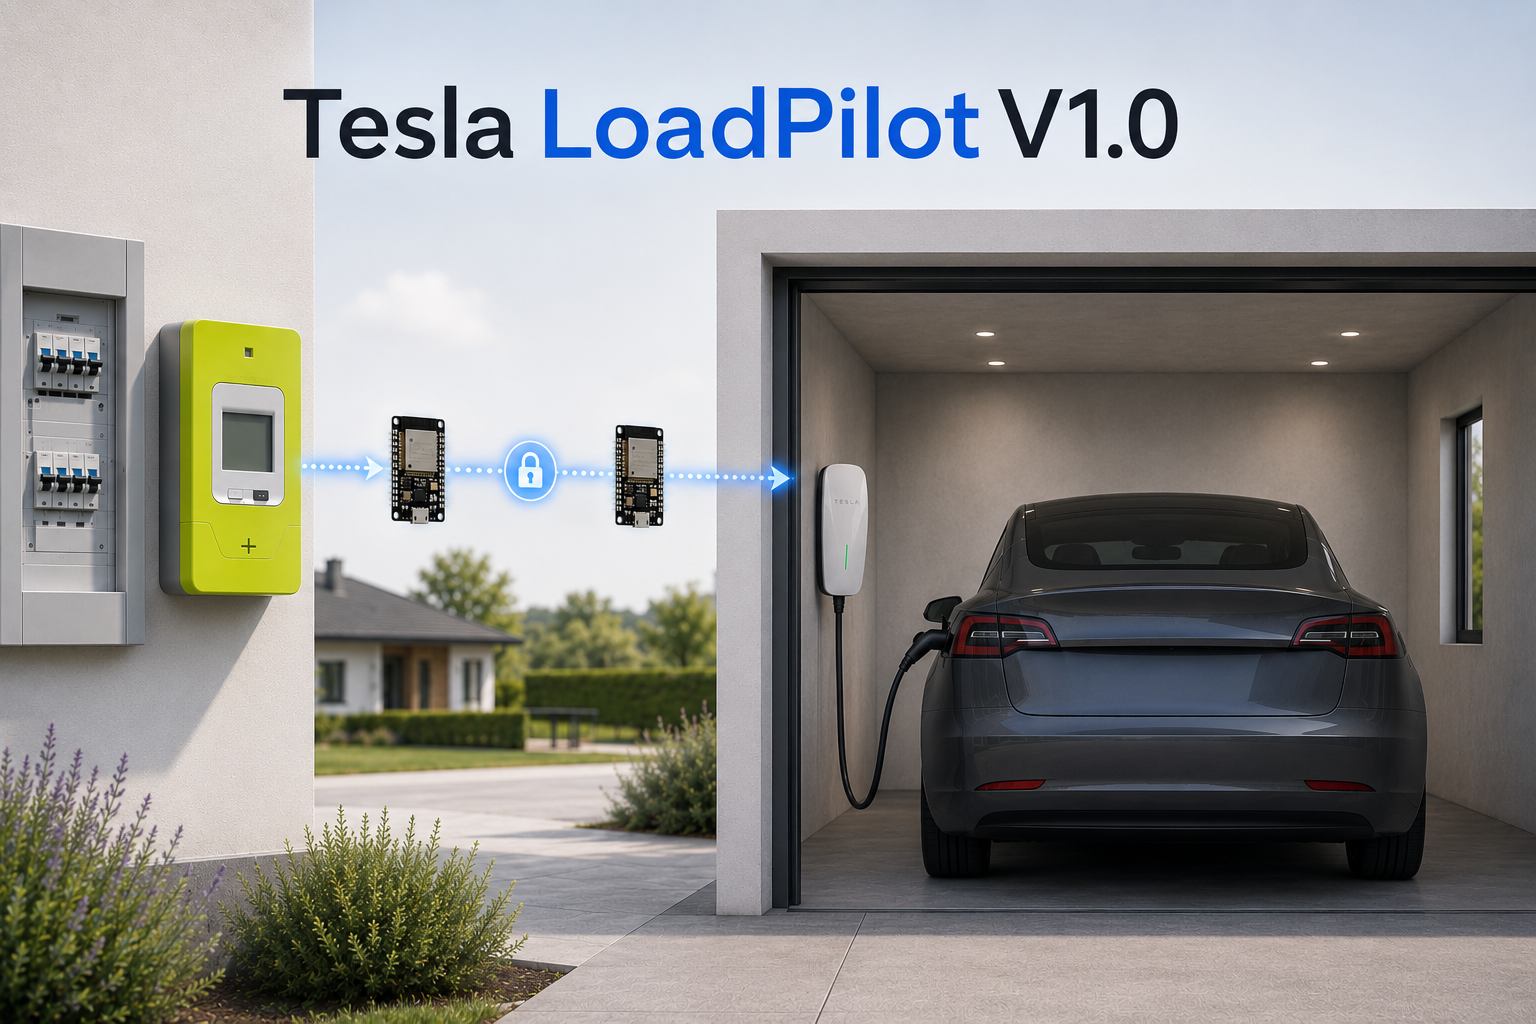
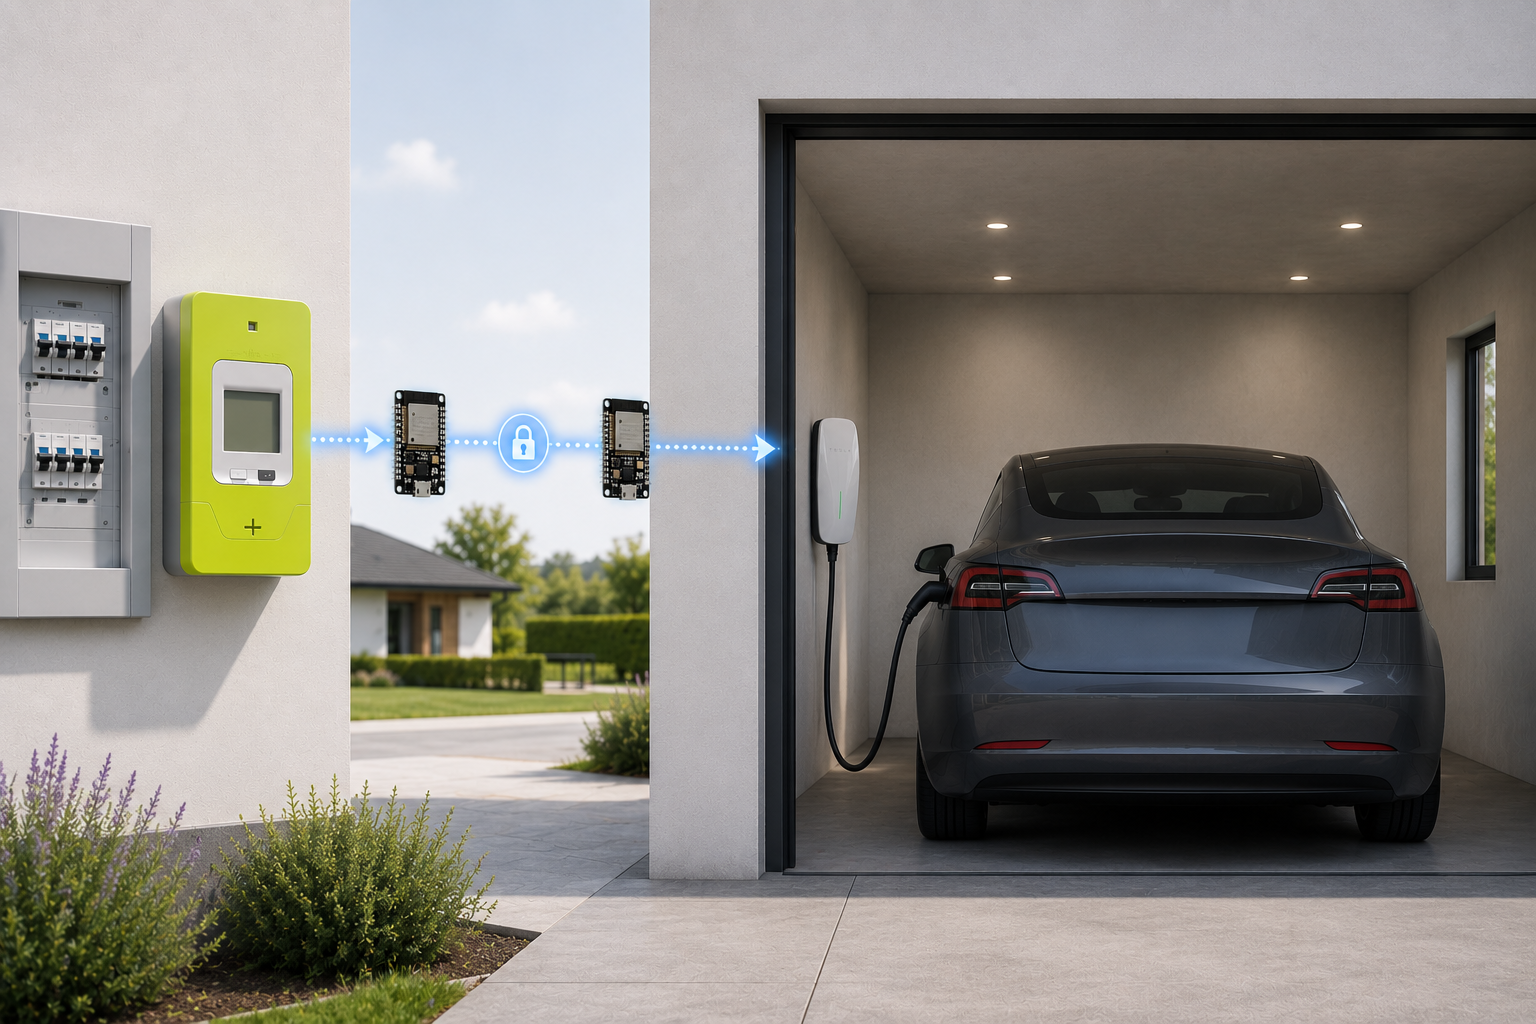
Nouvelle image hero : chaine complete Linky vers borne, sans lettrage ni titre

diff --git a/docs/fr/10_MATERIEL.md b/docs/fr/10_MATERIEL.md
@@ -7,8 +7,8 @@
 | # | Matériel | Rôle | Détails / lien |
 |---|---|---|---|
 | 1 | **Compteur Linky triphasé** (contrat Tempo 15 kVA dans l'installation de référence) | Source de mesure : téléinfo TIC **mode standard**, 9600 bd, 7E1, trames ~1 Hz (SINSTS >400 octets en Tempo) | Sortie I1/I2 du compteur. Limite surveillée PAR PHASE : contrat ÷ 3 (5 000 VA/phase ≈ 21,7 A à 15 kVA) |
-| 2 | **Nœud téléinfo : Olimex ESP32-POE** (modèle confirmé par Vincent) | Décode la TIC, publie vers HA (API native) **et** vers le nœud borne (UDP direct) | https://www.olimex.com/Products/IoT/ESP32/ESP32-POE/open-source-hardware - Ethernet LAN8720 : MDC GPIO23, MDIO GPIO18, CLK `GPIO17_OUT`, `phy_addr 0`. **Réconciliation config** (voir `20_FIRMWARE.md` §1.2) : la config de PRODUCTION (`board: esp32dev`, sans `power_pin`) fonctionne en Ethernet sur notre exemplaire - le brochage LAN8720 correspond bien à l'ESP32-POE ; mais la config de RÉFÉRENCE Olimex/ESPHome pour cette carte inclut `power_pin: GPIO12` (le GPIO qui alimente le PHY). La version publiée l'ajoute : sans lui le PHY dépend de l'état par défaut de GPIO12 et l'Ethernet peut ne pas revenir sur certains exemplaires/révisions après un soft-reset |
-| 3 | **Hat téléinfo Hallard « WeMos TeleInfo »** | Adaptation du signal TIC vers l'UART de l'ESP32 (opto-isolation) | https://www.tindie.com/products/hallard/wemos-teleinfo/ - monté sur le port UART, **RX GPIO36**, 9600 bd 7E1, mode standard (info Vincent) |
+| 2 | **Nœud téléinfo : Olimex ESP32-POE** (modèle confirmé sur le site pilote) | Décode la TIC, publie vers HA (API native) **et** vers le nœud borne (UDP direct) | https://www.olimex.com/Products/IoT/ESP32/ESP32-POE/open-source-hardware - Ethernet LAN8720 : MDC GPIO23, MDIO GPIO18, CLK `GPIO17_OUT`, `phy_addr 0`. **Réconciliation config** (voir `20_FIRMWARE.md` §1.2) : la config de PRODUCTION (`board: esp32dev`, sans `power_pin`) fonctionne en Ethernet sur notre exemplaire - le brochage LAN8720 correspond bien à l'ESP32-POE ; mais la config de RÉFÉRENCE Olimex/ESPHome pour cette carte inclut `power_pin: GPIO12` (le GPIO qui alimente le PHY). La version publiée l'ajoute : sans lui le PHY dépend de l'état par défaut de GPIO12 et l'Ethernet peut ne pas revenir sur certains exemplaires/révisions après un soft-reset |
+| 3 | **Hat téléinfo Hallard « WeMos TeleInfo »** | Adaptation du signal TIC vers l'UART de l'ESP32 (opto-isolation) | https://www.tindie.com/products/hallard/wemos-teleinfo/ - monté sur le port UART, **RX GPIO36**, 9600 bd 7E1, mode standard (relevé sur le site pilote) |
 | 4 | **Kincony KC868-A6** (ESP32) | Nœud borne : émule le compteur Neurio en **esclave Modbus RTU** sur le RS485 du TWC | Transceiver RS485 **MAX13487E à direction automatique** (aucun DE/RE à piloter), TX **GPIO27** / RX **GPIO14**. Doc : https://devices.esphome.io/devices/kincony-kc868-a6/ , https://www.kincony.com/forum/showthread.php?tid=1962 . À Loupiac ce nœud est mutualisé avec la sécurité eau/forage - seule l'UART RS485 libre est utilisée par le TWC |
 | 5 | **Tesla Wall Connector Gen 3** (firmware ≥ 26.18) | La borne. Entrée « Home Load Management » = bus RS485 interne, la borne est **maître Modbus et polle** le compteur | Bornier **RS485 2 points derrière la façade** (près du 230 V → **disjoncteur de la borne COUPÉ** avant d'ouvrir). Câblage A/B + GND, CAT5e. **Polarité à inverser si muet** (octets reçus mais 0 trame valide = A/B permutés - vécu). Modbus RTU **115200 8N1** |
 | 6 | Câble CAT5e (une paire + masse) | Liaison KC868 ↔ TWC | **Terminaison 120 Ω : non requise sur liaison courte** - VALIDÉ en production sans aucune résistance (115 200 bd, poll ~190 ms, zéro tx_blocked/trame rejetée sur des jours de fonctionnement). Ajouter 120 Ω à chaque extrémité si liaison longue (> quelques mètres) ou si erreurs de trame observées |

diff --git a/docs/fr/61_SPEC_BUFFER_T2.md b/docs/fr/61_SPEC_BUFFER_T2.md
@@ -22,7 +22,7 @@
 
 ## 1. Formule du coussin proportionnel - analyse et DÉCISION
 
-Sémantique demandée par Vincent : « buffer 10 % ⇒ le système n'exploite que 90 % des
+Sémantique demandée par le propriétaire du site : « buffer 10 % ⇒ le système n'exploite que 90 % des
 ressources disponibles ». Ressources disponibles pour la voiture = `L − maison`.
 
 ### 1.1 Variante A (formule littérale proposée) - ÉCARTÉE
@@ -55,7 +55,7 @@ Propriétés vérifiées :
 - **Sémantique exacte et PERSISTANTE.** Régime établi (Î→Î_dc, S_e2→pub) :
   `S' = maison + I + b·(L − maison)` ; équilibre `S' = L` ⇒
   **`I* = (1−b)·(L − maison)`** - la voiture n'exploite jamais que (1−b) de la ressource,
-  même après des heures. C'est la demande de Vincent, mot pour mot.
+  même après des heures. C'est la demande du propriétaire du site, mot pour mot.
 - **Pente conservée = α** (plausibilité 26.18) : `d(S')/d(I) = α − b·(1 − dÎ/dI) = α`
   quand vitals suivent (dÎ/dI = 1). T2 teste donc EXACTEMENT la pente 0,75 prévue par
   l'étude, quel que soit b - la variante A aurait contaminé le test. Résidu pendant le
@@ -119,7 +119,7 @@ if (std::isnan(b) || b < 0.0f || b > 30.0f) b = 10.0f; const float bfrac = b / 1
 tourne dans tous les modes) → les shadows L1-3 montrent l'effet du buffer sans toucher la
 borne = validation T0 gratuite avant T2. Aucun switch dédié : buffer à 0 = neutre.
 
-## 3. Protocole T2 finalisé (opérateurs : coordinateur + Vincent)
+## 3. Protocole T2 finalisé (opérateurs : coordinateur + propriétaire du site)
 
 ### 3.1 Préconditions (toutes vérifiables avant bascule)
 
@@ -167,7 +167,7 @@ vitals stale > 60 s pendant le test → RAW (le test n'est plus celui d'α=0,75)
   survit pas au reboot de toute façon - `restore_value: false`). Consigner : entrée
   datée dans `contrat_electrique_LOGIQUE.md` (T2 PASS + mesures : amplitude d'oscillation,
   équilibre, durée), note d'état dans `60_ETUDE_SYNTHETISEUR.md`, mode manuel biais OFF,
-  borne_seul selon le souhait de Vincent.
+  borne_seul selon le souhait du propriétaire du site.
 - **ÉCHEC** : select RAW, mode manuel biais OFF, borne_seul restauré ; consigner le mode
   d'échec exact (ignoré / trip / polling) + traces WS ; NE PAS retenter avant analyse -
   le repli V1 (gain constant PVi1) devient l'option sur la table.

diff --git a/docs/fr/00_SOMMAIRE.md b/docs/fr/00_SOMMAIRE.md
@@ -29,7 +29,7 @@ README portera en tête le disclaimer standard : *« This project is not
 affiliated with, endorsed by, or sponsored by Tesla, Inc. »* - et aucun
 logo/visuel Tesla ne sera utilisé.
 
-## Architecture de publication : DEUX MODULES (décision Vincent, 14/08)
+## Architecture de publication : DEUX MODULES (décision du site pilote, 14/08)
 
 1. **Le cœur universel** (nœud borne) : émulation Neurio, sémantique RAW,
    biais/rampe, fail-safe, priorité de sources, loi de commande mesurée.
@@ -84,7 +84,7 @@ tesla-loadpilot/
     └── packages/…
 ```
 
-## Décisions ACTÉES (Vincent, 14/08/2026)
+## Décisions ACTÉES (site pilote, 14/08/2026)
 
 - **Nom : « Tesla LoadPilot »** (dépôt probable `tesla-loadpilot`) - voir la
   note de nommage ci-dessus (disclaimer non-affiliation obligatoire).
@@ -106,7 +106,7 @@ tesla-loadpilot/
     documentée, toute la loi de commande mesurée (40_), la couche HA (50_).
 - **Structure deux modules** cœur universel + providers enfichables
   (ci-dessus).
-- **Nœud téléinfo de référence = Olimex ESP32-POE** (confirmé Vincent,
+- **Nœud téléinfo de référence = Olimex ESP32-POE** (confirmé sur le site pilote,
   fiche : https://www.olimex.com/Products/IoT/ESP32/ESP32-POE/open-source-hardware)
   - réconciliation de la config Ethernet dans `10_MATERIEL.md` /
   `20_FIRMWARE.md` §1.2.
@@ -120,7 +120,7 @@ tesla-loadpilot/
   (`10_MATERIEL.md` §2). Photos personnelles de l'installation bienvenues
   plus tard.
 
-## Questions ouvertes pour Vincent
+## Questions ouvertes pour le propriétaire du site
 
 1. **Licence du dépôt.** MIT (écosystème ESPHome) ? GPLv3 ? À articuler avec
    l'accord à obtenir de PVi1 (pas de licence explicite chez lui) et le

diff --git a/docs/fr/60_ETUDE_SYNTHETISEUR.md b/docs/fr/60_ETUDE_SYNTHETISEUR.md
@@ -1,6 +1,6 @@
 # Étude de conception - SYNTHÉTISEUR DE SIGNAL pour le DPM du TWC Gen 3
 
-> **Document d'étude, 14/08/2026 - AUCUNE mise en œuvre.** Idée de Vincent :
+> **Document d'étude, 14/08/2026 - AUCUNE mise en œuvre.** Idée du propriétaire du site :
 > faire évoluer le firmware du KC868-A6 de « compteur fidèle » (sémantique
 > RAW) vers un **synthétiseur de signal** - lire la téléinfo, PUBLIER un
 > signal FAÇONNÉ, réaliste et crédible, conçu pour que le DPM natif de la
@@ -298,7 +298,7 @@ bornée par le budget J et par le coussin_max (§6, I1) ; les vraies
 urgences restent gérées au-dessus (pause = biais plein, qui PRIME sur le
 plancher - §6, I6) et par le fail-safe (inchangé).
 
-### 4.5 Feed-forward événementiel + extrapolation (addendum Vincent) - OUI, cœur de l'architecture
+### 4.5 Feed-forward événementiel + extrapolation (addendum du propriétaire du site) - OUI, cœur de l'architecture
 
 Développés en §5.3-5.4. Point de théorie demandé - **pourquoi le
 feed-forward ne peut pas osciller** : une boucle oscille quand la sortie
@@ -752,7 +752,7 @@ variante V1 (gain constant PVi1) ou le statu quo binaire.
 ---
 
 *Étude rédigée le 14/08/2026 (agent architecte). Aucun fichier vivant
-modifié. Prochain pas si Vincent valide : lot S1 (mode ombre, zéro risque).*
+modifié. Prochain pas si le propriétaire du site valide : lot S1 (mode ombre, zéro risque).*
 
 ---
 

diff --git a/PUBLICATION_CHECKLIST.md b/PUBLICATION_CHECKLIST.md
@@ -3,8 +3,8 @@
 The repository went public on 17 Aug 2026 under MIT, with attribution to
 PVi1 and Klangen82. Remaining polish items, none of them blocking:
 
-- [ ] **Hero image retouch** : remove the TESLA lettering on the charger in
-  `docs/assets/hero.png` and regenerate without the V1.0 caption.
+- [x] **Hero image retouch** : done 18 Aug, new render without charger
+  lettering or caption, showing the full Linky to charger chain.
 - [x] **CI re-hardened** : `continue-on-error` removed from the HACS job
   (17 Aug); only the brands check stays ignored until the brands PR merges.
 - [x] **Brand icons shipped in the integration** (`custom_components/
